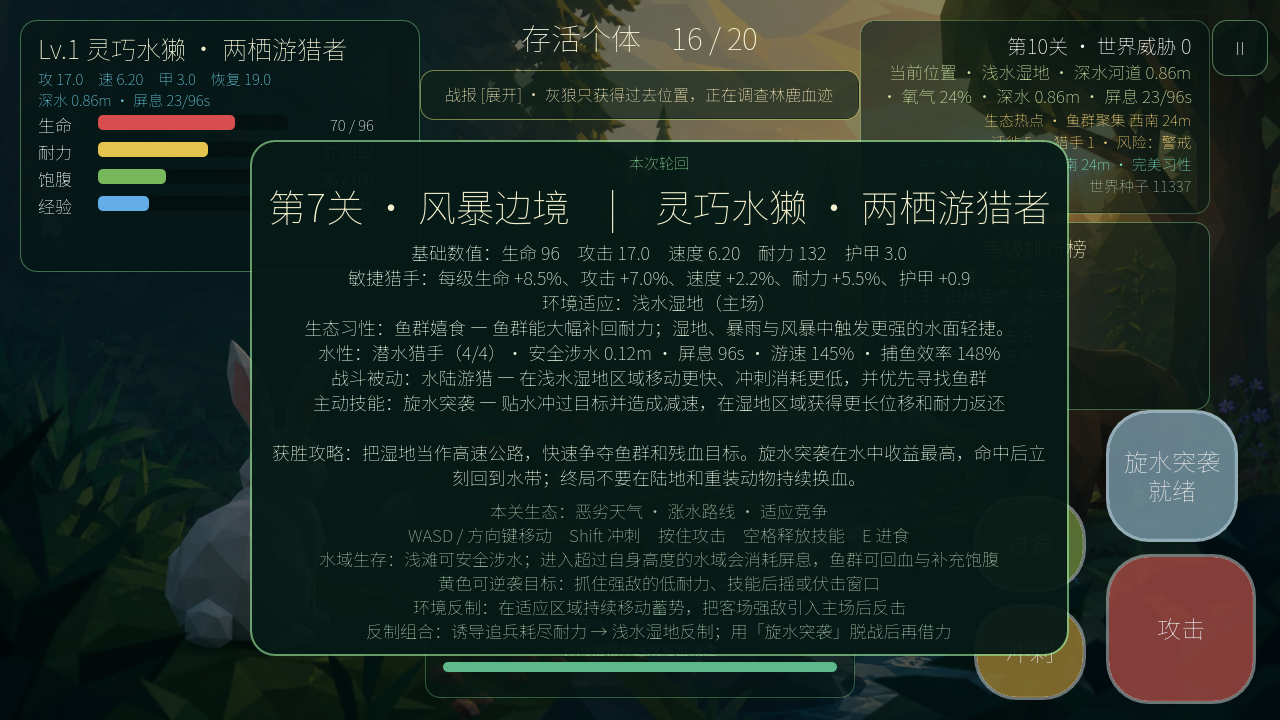
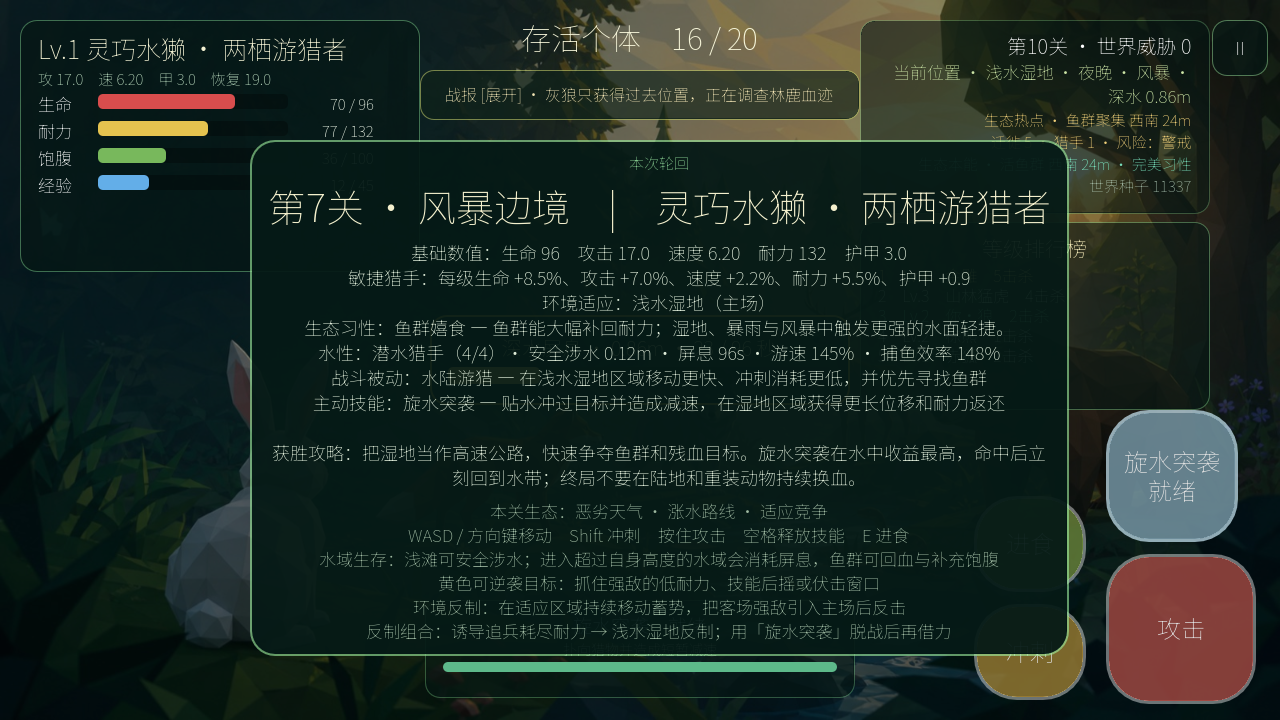
feat: show breath meter in deep water

Changed region(s): [[0.0312, 0.0917, 0.1875, 0.3056], [0.6875, 0.0917, 0.9375, 0.1528], [0.25, 0.1528, 0.2812, 0.1833]]

diff --git a/docs/15_发布候选与真机验收.md b/docs/15_发布候选与真机验收.md
@@ -1,7 +1,7 @@
-# V1.53 发布候选与真机验收
+# V1.54 发布候选与真机验收
 
-版本：1.53.0（Android/iOS 构建号 630）
-候选状态：连续可见边界、四向界碑和附近主动捕猎已接入；玩家与普通 AI 共用同一猎物候选与效用公式，边界视觉层不参与碰撞或导航。地图连通率、移动端性能和完整三端候选仍按本表验收。
+版本：1.54.0（Android/iOS 构建号 640）
+候选状态：深水中央屏息进度条已接入，仅在玩家实际超过当前物种安全涉水线后显示；安全浅滩、陆地和飞行掠水均保持隐藏。V1.53 的连续边界、附近主动捕猎与公平目标选择契约保持不变。
 
 ## 1. 发布门禁
 
@@ -20,7 +20,7 @@
 运行方式：
 
 ```bash
-./tools/build_release_candidate.sh /tmp/eco-rebirth-v153-rc
+./tools/build_release_candidate.sh /tmp/eco-rebirth-v154-rc
 ```
 
 正式候选还可加 `ECO_RC_SOAK=1`，自动追加第 1/10 关各两局完整生态收束模拟；普通候选保留该步骤为可选，以免每次小改动都执行数分钟长局。
@@ -31,13 +31,13 @@
 |---|---|---|
 | Godot 解析 | 通过 | Godot 4.7.1 Compatibility |
 | 30 物种数据 | 通过 | 数值、技能、习性、成长、关卡池 |
-| 发布契约 | 通过 | 存档 schema 5、近距离捕食、玩家/AI 目标公平性、四向连续边界、100% 开放连通率、30 份水性、60 份 Blender GLB；30 种 Mobile 总顶点 130,560 / 140,000 |
+| 发布契约 | 通过 | 存档 schema 5、深水中央屏息条三态、近距离捕食、玩家/AI 目标公平性、四向连续边界、100% 开放连通率、30 份水性、60 份 Blender GLB；30 种 Mobile 总顶点 130,560 / 140,000 |
 | 运行烟测 | 通过 | 正常主场景 1200 帧，无脚本错误 |
 | 性能门禁 | 通过 | V1.53 附近捕食与边界：L1 60.1 FPS / 7.42 ms / 100.1 MiB；L5 60.0 / 13.26 / 126.1；L10 59.9 / 21.63 / 149.5。全部满足自动门槛 |
 | 完整生态收束 | 通过 | V1.53 第 1/10 关固定种子各 2 局均 0 超时；平均局长 381.0s / 1409.2s，战斗击杀 18 / 162 次，第 1 关平均首死 28.0s，第 10 关平均首死 7.8s |
 | Web | 通过 | `index.html/js/wasm/pck` 完整 |
-| Pages CI | 本地契约通过 | 发布前门禁完整，官方 Actions 使用 Node.js 24 对应主版本；V1.53 推送后仍需等待线上工作流完成 |
-| iOS 工程 | 通过 | 1.53.0/build 630 Release、iphoneos、arm64、关闭签名编译成功 |
+| Pages CI | 本地契约通过 | 发布前门禁完整，官方 Actions 使用 Node.js 24 对应主版本；V1.54 推送后仍需等待线上工作流完成 |
+| iOS 工程 | 通过 | 1.54.0/build 640 Release、iphoneos、arm64、关闭签名编译成功 |
 | Android | 环境阻塞 | 已有 Godot 模板和 JDK 17；缺 Platform 36、Build Tools 35.0.1、adb，Google SDK 许可尚未接受 |
 | iPhone 真机 | 待人工验收 | 本次已通过关闭签名的 arm64 构建，但未执行安装、触控、帧率或温度验收 |
 
@@ -55,7 +55,7 @@
 | 30 种字体、图鉴滚动、结算滚动 | 待验收 | 待验收 | 待验收 |
 | 暂停/切后台/恢复音频 | 待验收 | 待验收 | 待验收 |
 | 存档退出重进与 schema 3/4→5 迁移 | 待验收 | 待验收 | 待验收 |
-| 浅滩/深水、氧气警告、溺水与上岸恢复 | 待验收 | 待验收 | 待验收 |
+| 浅滩隐藏屏息条；越过个体涉水线后中央显示；低氧/溺水变色 | 待验收 | 待验收 | 待验收 |
 | 雪兔/水獭水性差异、捕鱼回血与饱腹 | 待验收 | 待验收 | 待验收 |
 | 四边连续地表带、引导线与生态边界界碑 | 待验收 | 待验收 | 待验收 |
 | 肉食 AI 主动攻击附近玩家与其他 AI，且不跨图仇恨 | 待验收 | 待验收 | 待验收 |
@@ -67,7 +67,7 @@
 ## 4. 发布材料
 
 - 游戏名称：《生态轮回》/ Eco Rebirth；
-- 版本：1.53.0，构建号 630；
+- 版本：1.54.0，构建号 640；
 - 支持：Web、Android 7.0+（API 24）、iOS 15+；
 - 方向：仅横屏，支持左右两个横屏方向；
 - 联网：游戏逻辑不需要账号或网络；网页版仅从 GitHub Pages 下载静态资源；

diff --git a/README.md b/README.md
@@ -1,6 +1,6 @@
 # 《生态轮回》游戏设计文档
 
-版本：发布候选 V1.53 RC1 + GDD V1.0
+版本：发布候选 V1.54 RC1 + GDD V1.0
 状态：自动化发布门禁已通过，等待 Android/iOS 实体设备最终验收
 引擎：Godot 4.7.1  
 视角：3D 斜俯视角
@@ -10,6 +10,10 @@
 打开 [《生态轮回》网页版](https://976971956.github.io/eco-rebirth/) 即可直接开始游戏。电脑支持键盘操作，手机支持左侧动态摇杆与右侧技能按钮。
 
 ## 可玩版本
+
+V1.54 重做了深水屏息反馈。屏息进度条现在位于屏幕正中央，并且只有在玩家实际超过当前物种的安全涉水线、开始消耗屏息时才显示。正常屏息为蓝色，低于 32% 变为黄色撤离预警，氧气归零则变为红色溺水警报；安全浅滩、陆地和飞禽掠过水面时都会隐藏。
+
+![V1.54 深水中央屏息进度条](docs/images/v83-deep-water-breath-hud.png)
 
 V1.53 让地图边缘和捕食行为在实际游戏中可读。四条真实可玩边缘现在各有连续深色地表带、内侧引导线和中点界碑；高画质界碑显示“生态边界·请折返”，中/低画质使用金色停止标记节省字形显存，所有画质在玩家进入 14 米边缘带时都会在 HUD 显示实时距离。边界全部为无碰撞视觉层，不会新增空气墙或死路。肉食 AI 和有足够捕食动机的杂食 AI 会主动评估进入附近反应半径的合法猎物，可在开局生态建立期内触发有限近距离交战；玩家与普通 AI 使用同一候选、感知、效用和放弃追击规则，既不被忽略，也没有额外仇恨值。
 

diff --git a/BUILDING.md b/BUILDING.md
@@ -1,4 +1,4 @@
-# 《生态轮回》V1.53 RC1 运行与导出
+# 《生态轮回》V1.54 RC1 运行与导出
 
 ## 直接运行
 
@@ -27,6 +27,8 @@ godot --path .
 | 暂停 | Esc | 右上暂停按钮 |
 
 普通攻击只在攻击范围内触发。食草物种吃绿色植物，肉食物种吃尸体，狐狸和熊两者都能吃。
+
+V1.54 在屏幕中央增加深水屏息进度条。它不以固定地图水深猜测状态，而是在玩家真正超过当前物种的安全涉水线后才显示；浅滩、陆地与空中掠水会自动隐藏。颜色按正常/低氧/溺水三态切换。候选运行 `./tools/build_release_candidate.sh /tmp/eco-rebirth-v154-rc`。
 
 V1.53 增加连续地表边界带、四向边界界碑和近距离主动捕猎。边界不加入碰撞、导航障碍或出生净空数据；AI 只对进入自身 5.2–11.5 米动态反应半径的合法猎物提前解除建立期克制，低血、低耐力、低收益、食草或超距离目标都不会被该规则强行追猎。候选运行 `./tools/build_release_candidate.sh /tmp/eco-rebirth-v153-rc`。
 

diff --git a/docs/01_核心玩法与系统规则.md b/docs/01_核心玩法与系统规则.md
@@ -222,6 +222,7 @@
 
 - 每种动物拥有 `安全涉水深度`、`舒适水深`、`憋气时长`、`游泳速度` 和 `捕鱼效率`；大体型并不自动等于水性好；
 - 水深不超过安全涉水线时可以站立并恢复氧气；超过该线后进入游泳/屏息状态，同时消耗氧气和耐力；
+- 中央 HUD 的屏息进度条只在实际超过当前物种安全涉水线后显示；安全浅滩和飞禽掠水不会遮挡中央视野，低于 32% 转为黄色撤离预警，归零后转为红色溺水警报；
 - 水越深，氧气消耗越快；冲刺、技能位移或力竭会进一步提高消耗；返回安全浅水或陆地后逐步恢复；
 - 氧气低于 32% 时玩家收到撤离警告，AI 切换为 `water_escape` 并寻找最近浅滩；氧气归零后每秒损失最大生命 6%，生命归零按“溺水”正常结算；
 - 暴雨和风暴分别把当前水深提高约 6% 和 12%，因此晴天可走的路线可能在坏天气中变成深水；
